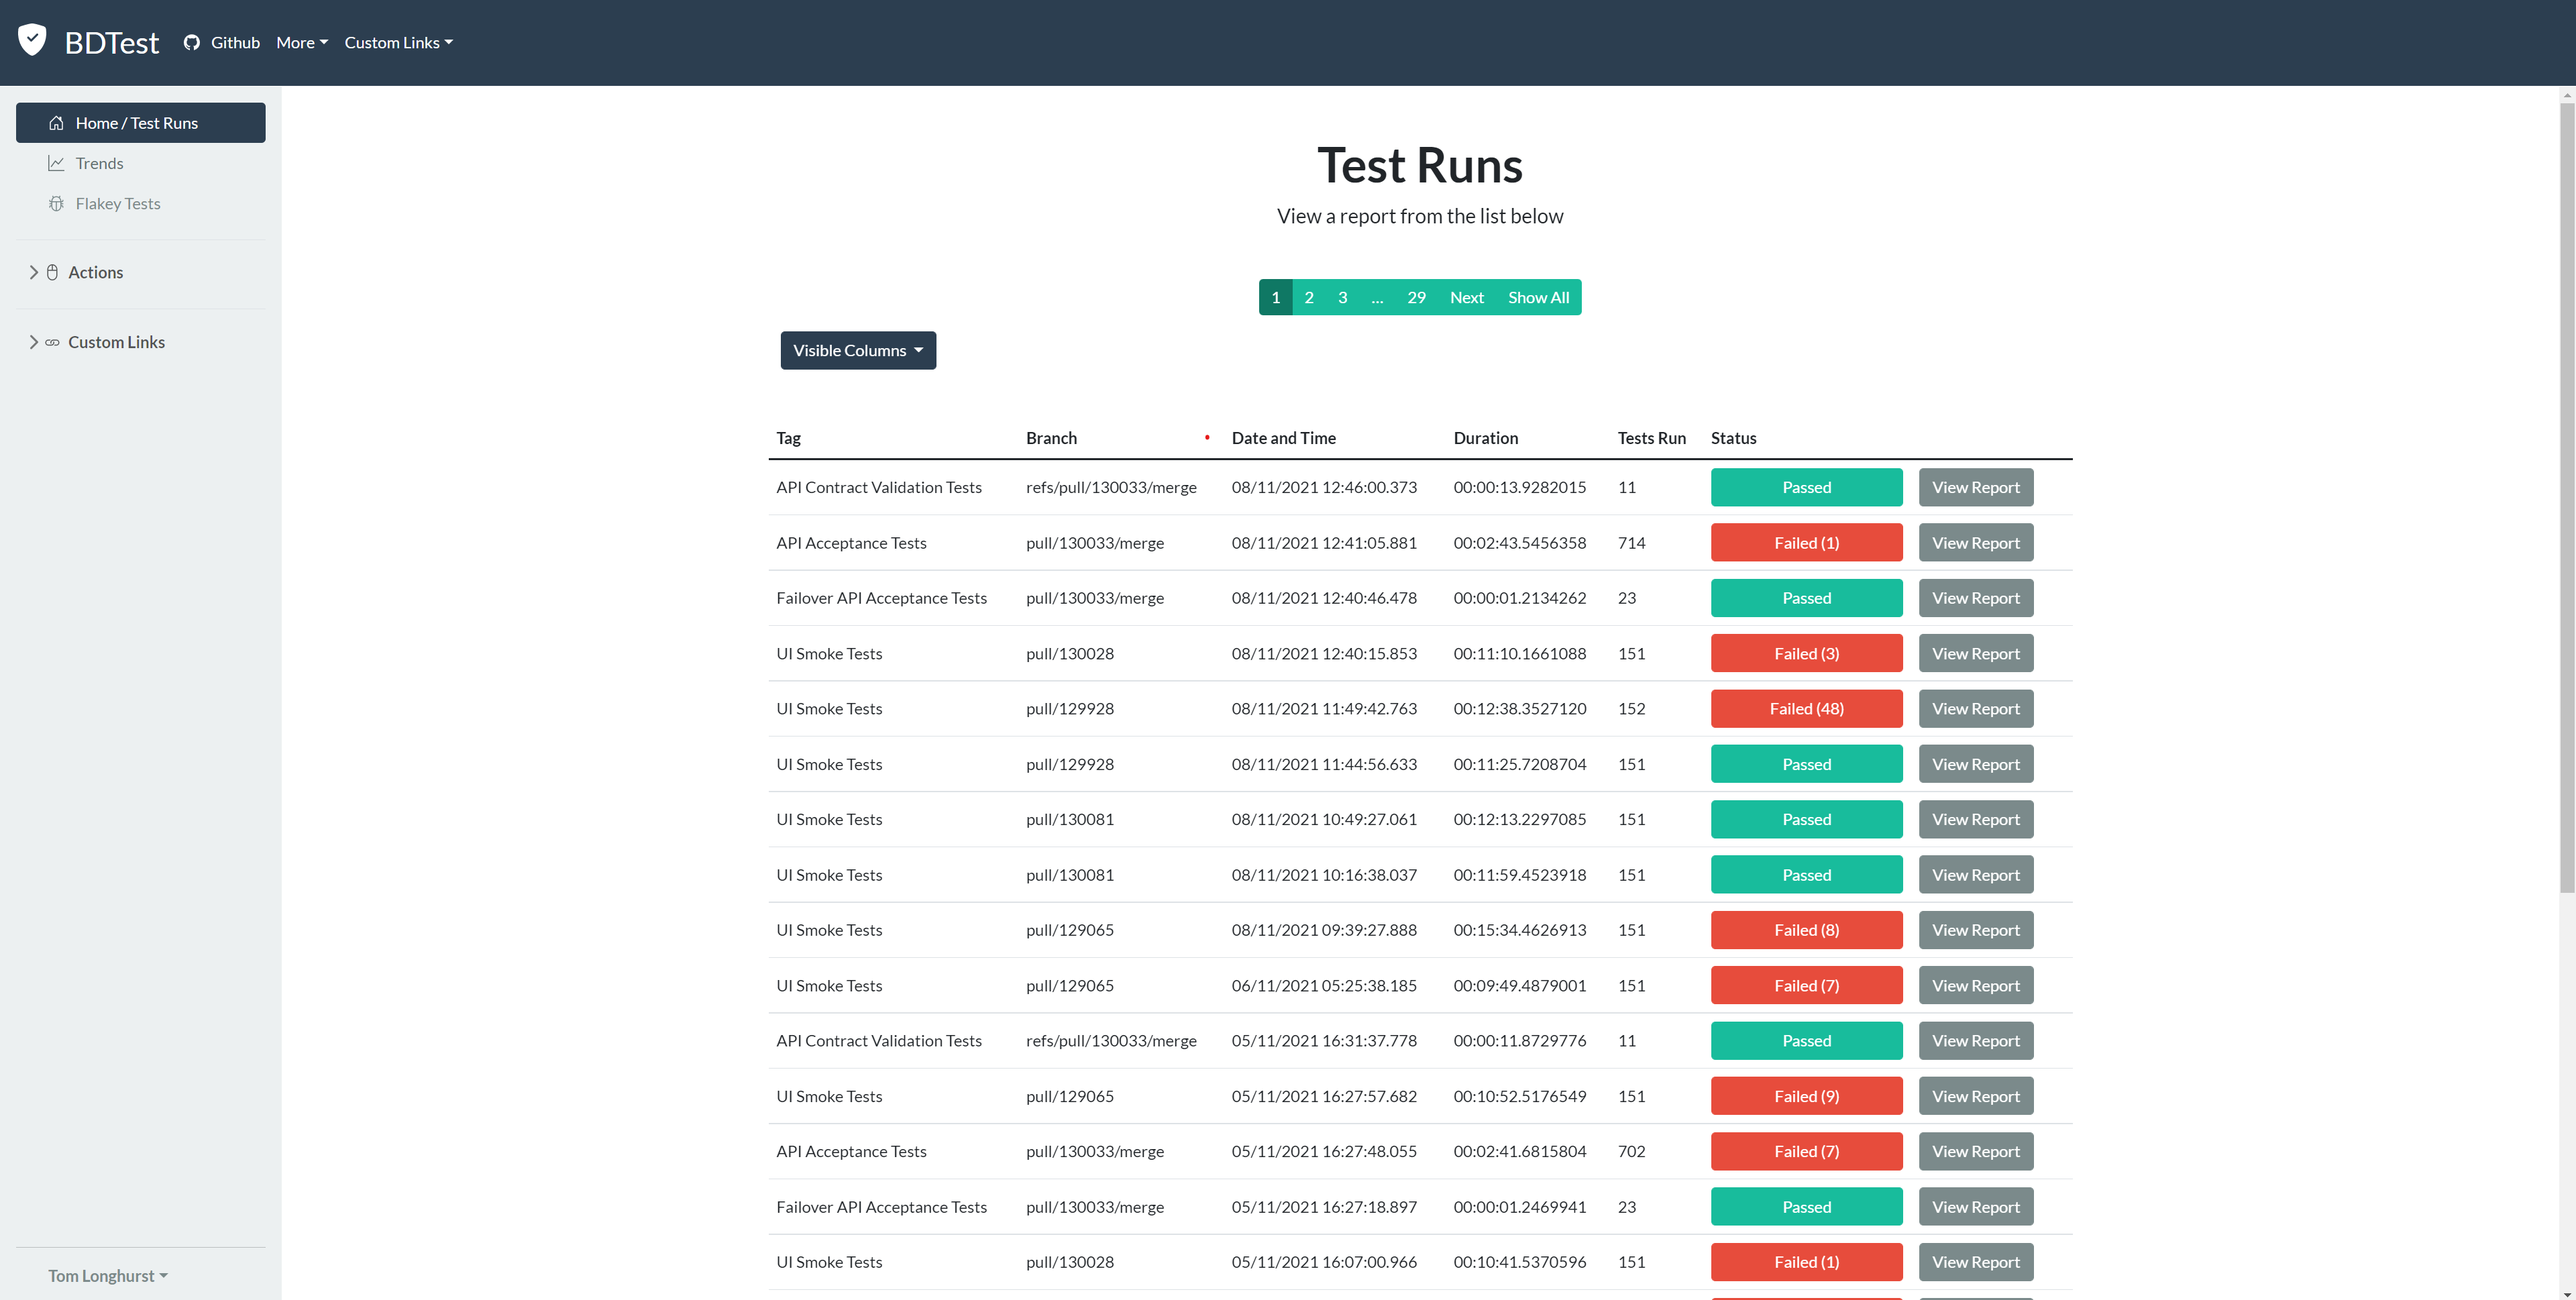
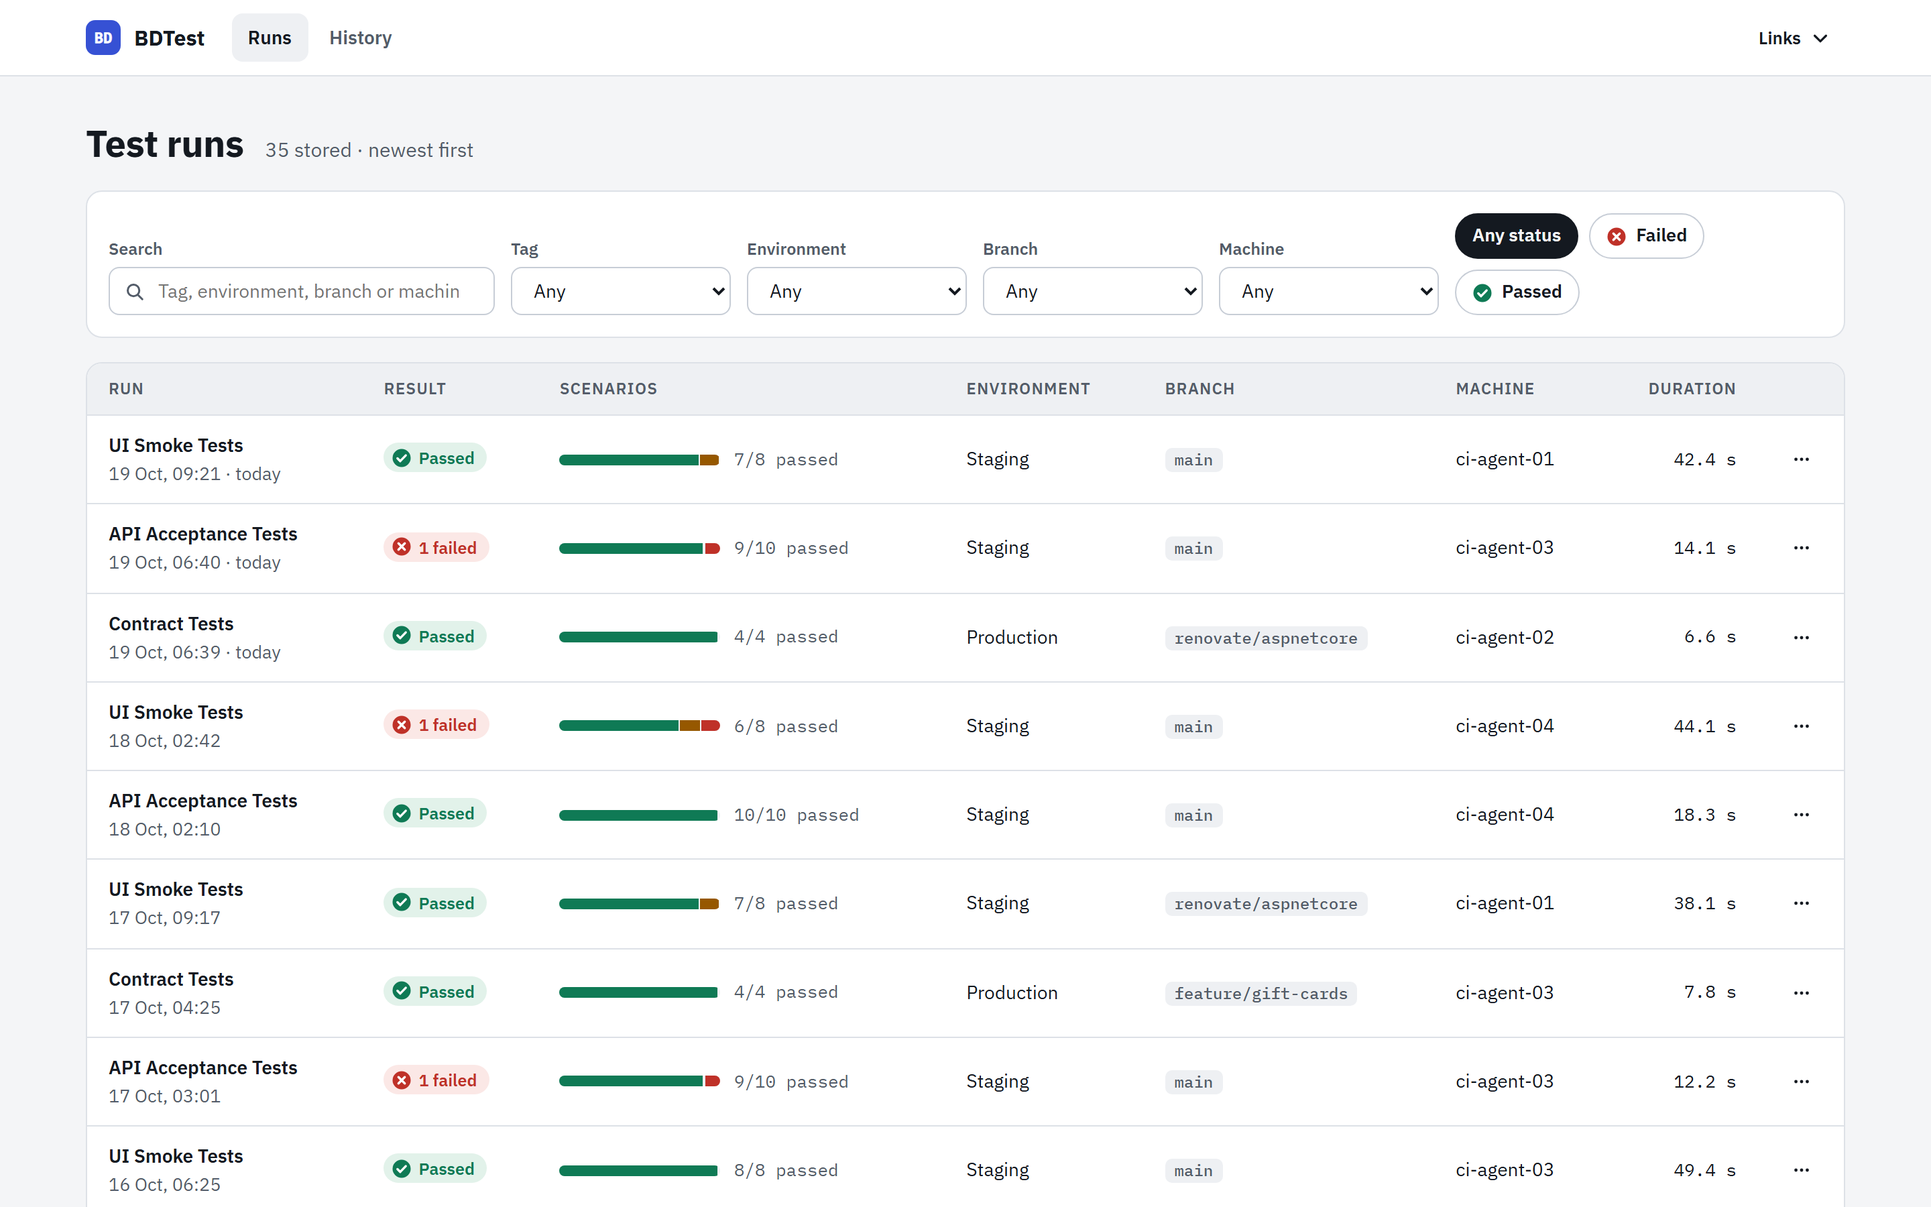
docs: refresh report server screenshots
Replace the 2021 test run list screenshot with the current UI and add
run overview and history trends screenshots to the report server overview.

diff --git a/docs/docs/report-server/overview.md b/docs/docs/report-server/overview.md
@@ -17,6 +17,10 @@ It gives you:
 - a **History** section for the runs that match a tag, environment, branch, machine and date range: **Trends** (results and duration per run), **Flaky tests** (scenarios that both passed and failed) and **Timing variance**,
 - links you can send to anyone with access. Pages follow the system light or dark theme and work on phones.
 
+![Overview tab of a single test run](/img/report-server-run-overview.png)
+
+![History trends for one tag](/img/report-server-history-trends.png)
+
 ## How it fits together
 
 ```text
